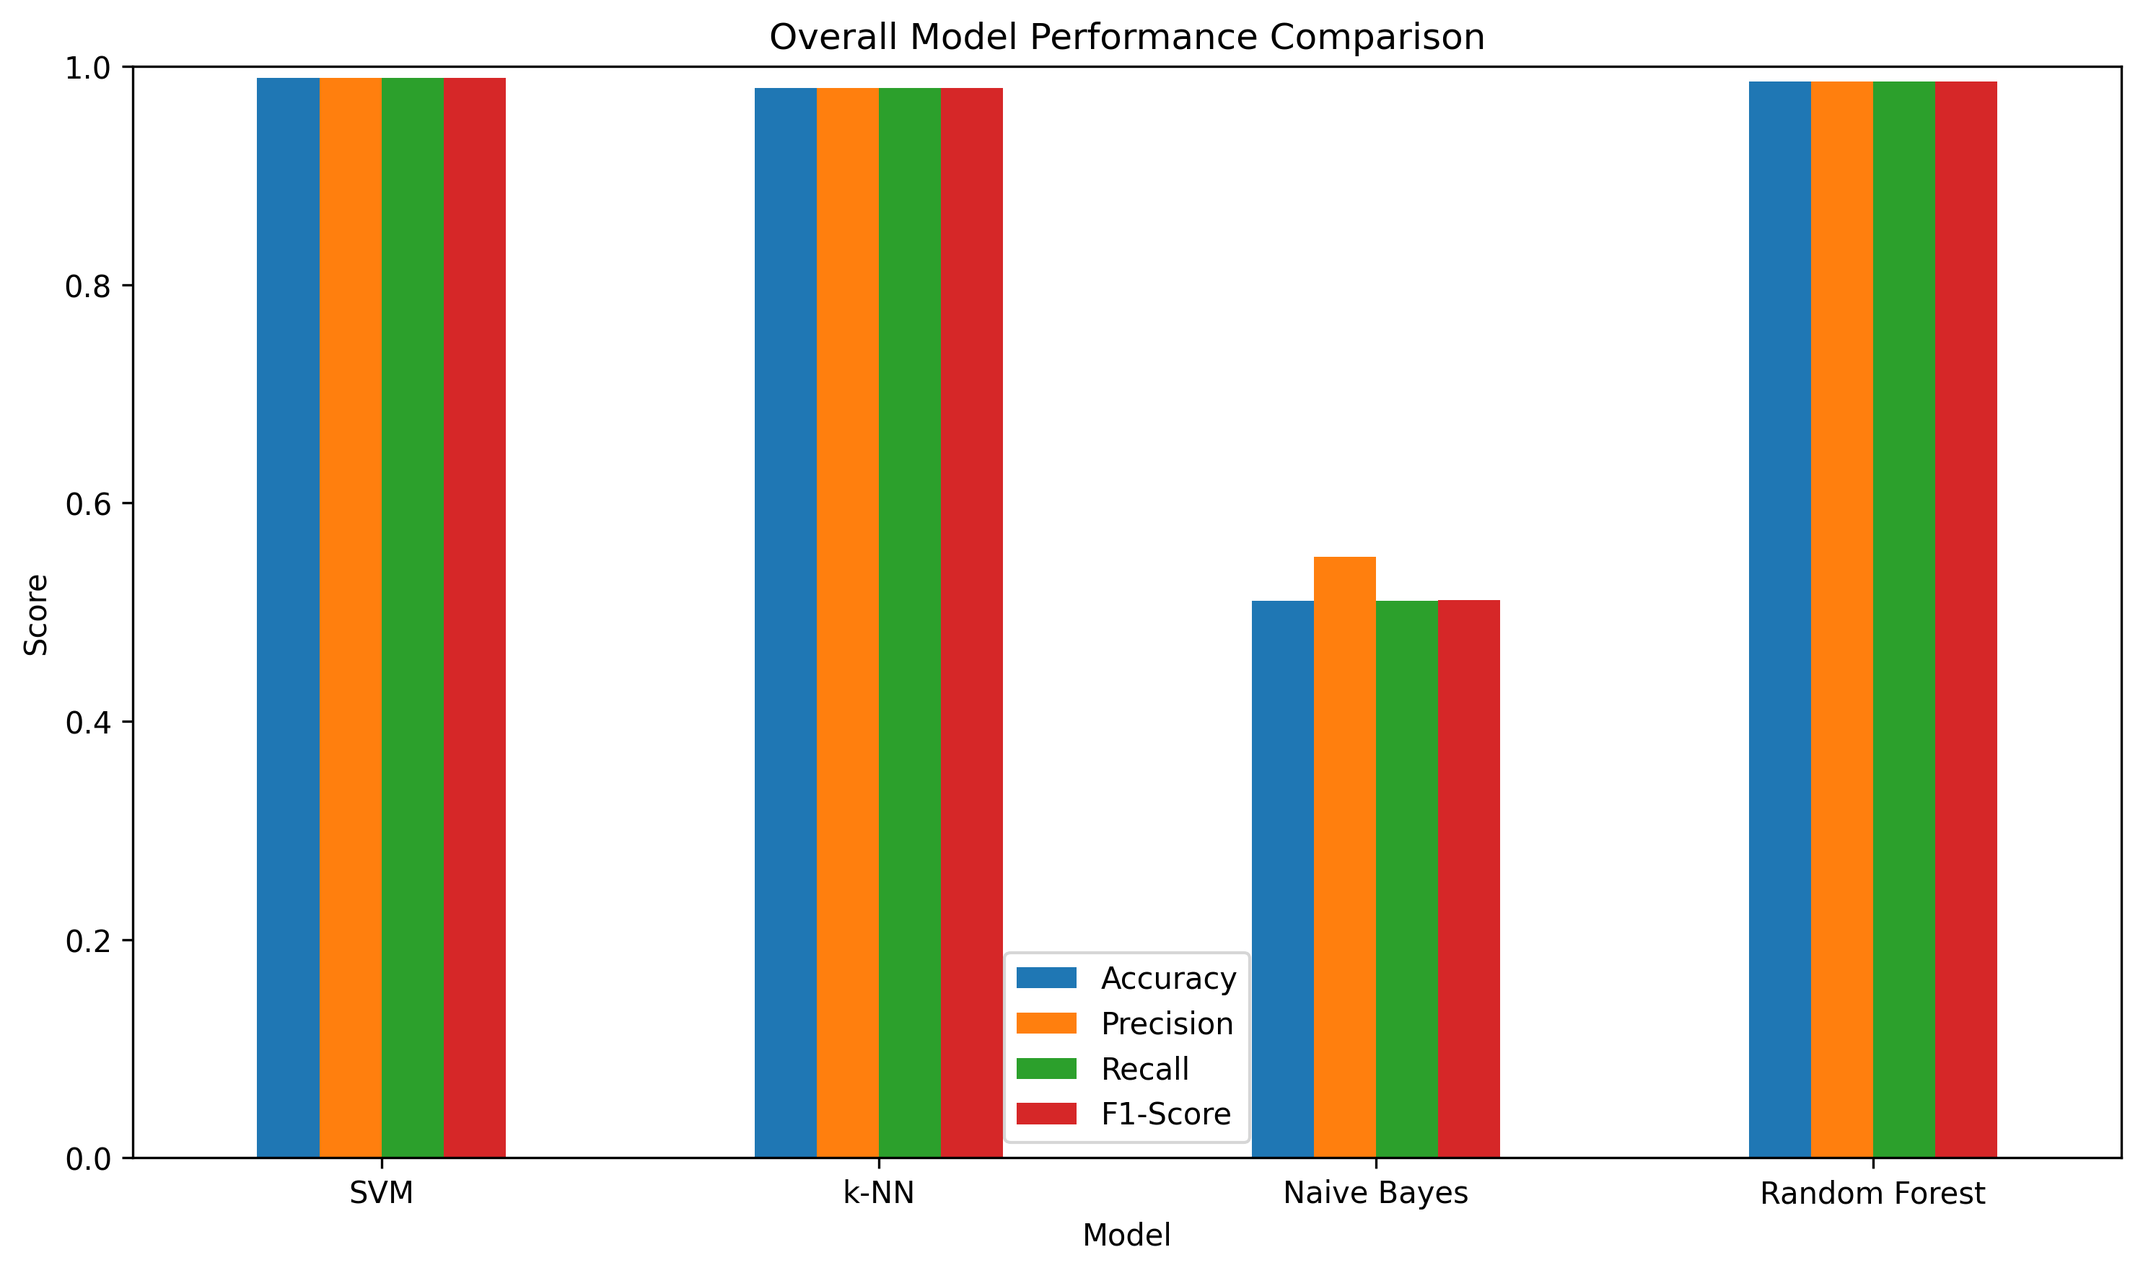
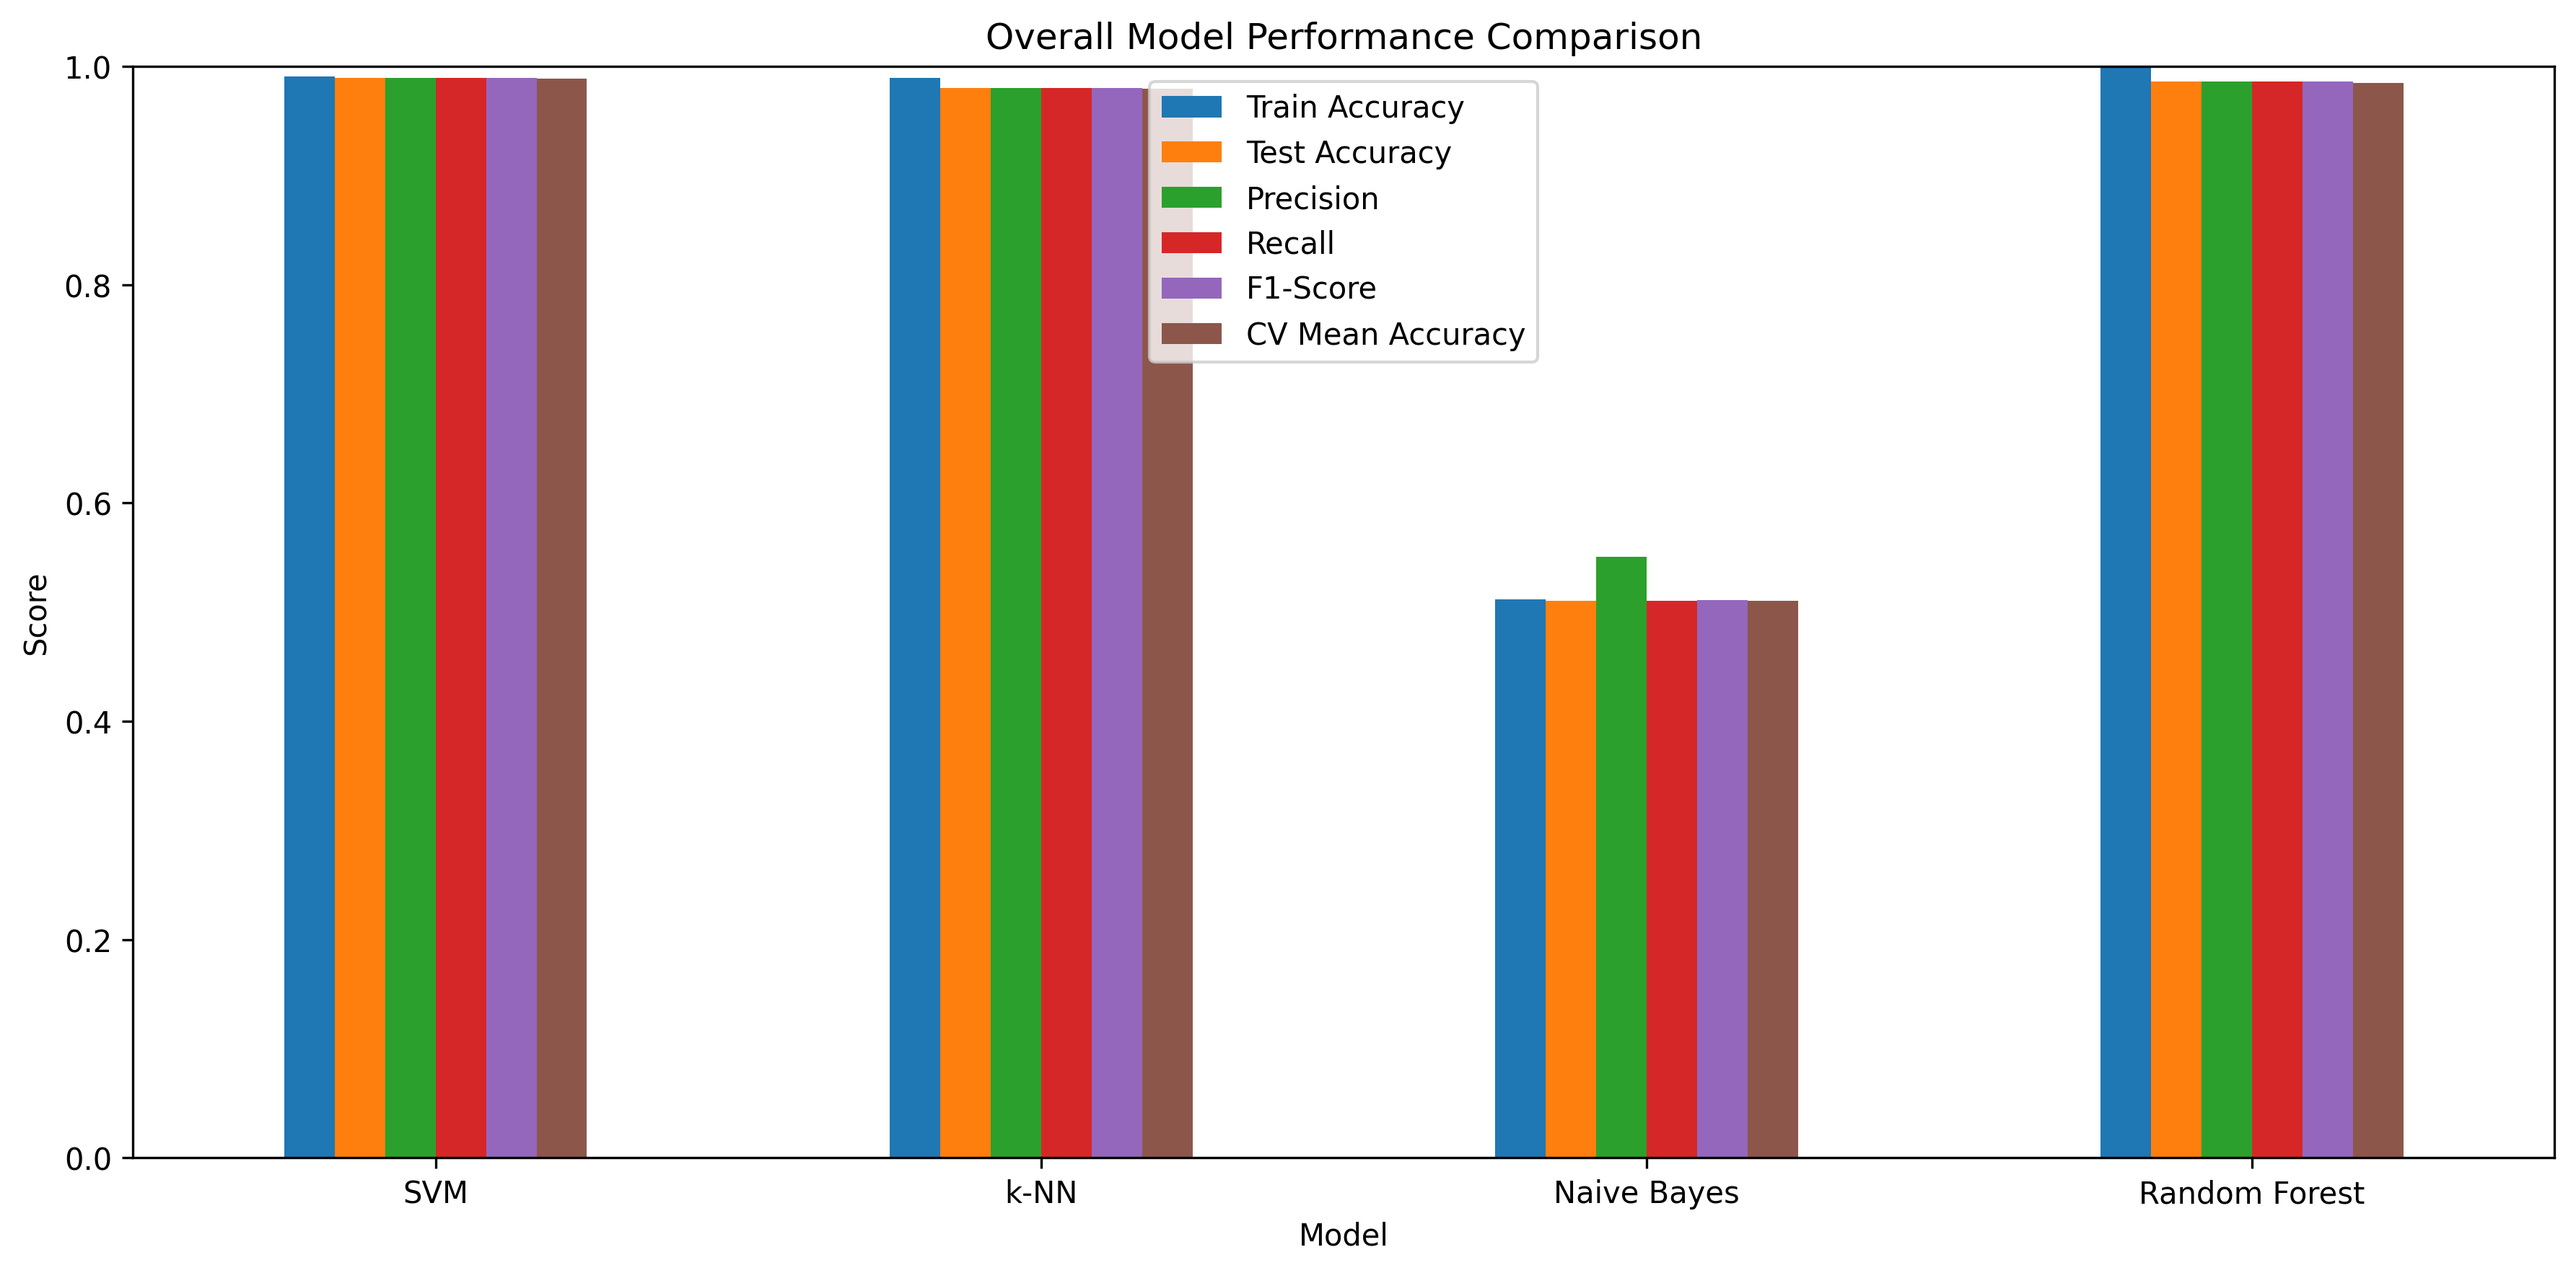
added 5-fold Cross Validation

diff --git a/model_testing.py b/model_testing.py
@@ -2,7 +2,12 @@ import os
 import pandas as pd
 import numpy as np
 
-from sklearn.model_selection import train_test_split
+from sklearn.model_selection import (
+    train_test_split,
+    cross_val_score,
+    StratifiedKFold
+)
+
 from sklearn.preprocessing import StandardScaler, LabelEncoder
 
 from sklearn.svm import SVC
@@ -30,7 +35,7 @@ os.makedirs("plots/model_comparisons", exist_ok=True)
 os.makedirs("reports", exist_ok=True)
 
 # ==========================================
-# 2. LOAD CSV FILE
+# 2. LOAD DATASET
 # ==========================================
 CSV_PATH = "asl_landmark_features.csv"
 
@@ -41,7 +46,7 @@ print(df.head())
 print("\nDataset Shape:", df.shape)
 
 # ==========================================
-# 3. SEPARATE FEATURES AND LABELS
+# 3. FEATURES AND LABELS
 # ==========================================
 X = df.drop("label", axis=1)
 y = df["label"]
@@ -56,7 +61,7 @@ print("\nClasses:")
 print(label_encoder.classes_)
 
 # ==========================================
-# 5. TRAIN-TEST SPLIT (80:20 PER LABEL)
+# 5. TRAIN-TEST SPLIT
 # ==========================================
 X_train, X_test, y_train, y_test = train_test_split(
     X,
@@ -77,6 +82,9 @@ scaler = StandardScaler()
 X_train = scaler.fit_transform(X_train)
 X_test = scaler.transform(X_test)
 
+# Scale full dataset for cross-validation
+X_scaled = scaler.fit_transform(X)
+
 # ==========================================
 # 7. DEFINE MODELS
 # ==========================================
@@ -91,15 +99,24 @@ models = {
 }
 
 # ==========================================
-# 8. TRAIN AND EVALUATE MODELS
+# 8. K-FOLD CROSS VALIDATION SETUP
+# ==========================================
+kfold = StratifiedKFold(
+    n_splits=5,
+    shuffle=True,
+    random_state=42
+)
+
+# ==========================================
+# 9. TRAIN AND EVALUATE
 # ==========================================
 results = []
 
 for model_name, model in models.items():
 
-    print("\n" + "="*50)
+    print("\n" + "="*60)
     print(f"TRAINING: {model_name}")
-    print("="*50)
+    print("="*60)
 
     # ==========================================
     # TRAIN MODEL
@@ -112,7 +129,7 @@ for model_name, model in models.items():
     y_pred = model.predict(X_test)
 
     # ==========================================
-    # METRICS
+    # TEST METRICS
     # ==========================================
     accuracy = accuracy_score(y_test, y_pred)
 
@@ -135,23 +152,54 @@ for model_name, model in models.items():
     )
 
     # ==========================================
+    # TRAINING ACCURACY
+    # ==========================================
+    train_accuracy = model.score(X_train, y_train)
+
+    # ==========================================
+    # CROSS VALIDATION
+    # ==========================================
+    cv_scores = cross_val_score(
+        model,
+        X_scaled,
+        y_encoded,
+        cv=kfold,
+        scoring='accuracy',
+        n_jobs=-1
+    )
+
+    cv_mean = cv_scores.mean()
+    cv_std = cv_scores.std()
+
+    # ==========================================
     # STORE RESULTS
     # ==========================================
     results.append({
         "Model": model_name,
-        "Accuracy": accuracy,
+        "Train Accuracy": train_accuracy,
+        "Test Accuracy": accuracy,
         "Precision": precision,
         "Recall": recall,
-        "F1-Score": f1
+        "F1-Score": f1,
+        "CV Mean Accuracy": cv_mean,
+        "CV Std": cv_std
     })
 
     # ==========================================
     # PRINT RESULTS
     # ==========================================
-    print(f"\nAccuracy : {accuracy:.4f}")
-    print(f"Precision: {precision:.4f}")
-    print(f"Recall   : {recall:.4f}")
-    print(f"F1-Score : {f1:.4f}")
+    print(f"\nTrain Accuracy : {train_accuracy:.4f}")
+    print(f"Test Accuracy  : {accuracy:.4f}")
+
+    print(f"\nPrecision      : {precision:.4f}")
+    print(f"Recall         : {recall:.4f}")
+    print(f"F1-Score       : {f1:.4f}")
+
+    print("\nCross Validation Scores:")
+    print(cv_scores)
+
+    print(f"\nMean CV Accuracy: {cv_mean:.4f}")
+    print(f"CV Std Dev      : {cv_std:.4f}")
 
     # ==========================================
     # CLASSIFICATION REPORT
@@ -165,7 +213,7 @@ for model_name, model in models.items():
     print("\nClassification Report:")
     print(report)
 
-    # Save report to text file
+    # Save report
     report_path = f"reports/{model_name}_classification_report.txt"
 
     with open(report_path, "w") as f:
@@ -205,28 +253,33 @@ for model_name, model in models.items():
     plt.close()
 
 # ==========================================
-# 9. RESULTS COMPARISON TABLE
+# 10. RESULTS TABLE
 # ==========================================
 results_df = pd.DataFrame(results)
 
-print("\n" + "="*50)
+print("\n" + "="*60)
 print("FINAL MODEL COMPARISON")
-print("="*50)
+print("="*60)
 
 print(results_df)
 
-# ==========================================
-# 10. SAVE RESULTS CSV
-# ==========================================
+# Save results
 results_df.to_csv(
-    "reports/model_results.csv",
+    "reports/model_results_with_cv.csv",
     index=False
 )
 
 # ==========================================
-# 11. VISUALIZE METRICS
+# 11. METRIC COMPARISON PLOTS
 # ==========================================
-metrics = ["Accuracy", "Precision", "Recall", "F1-Score"]
+metrics = [
+    "Train Accuracy",
+    "Test Accuracy",
+    "Precision",
+    "Recall",
+    "F1-Score",
+    "CV Mean Accuracy"
+]
 
 for metric in metrics:
 
@@ -239,6 +292,7 @@ for metric in metrics:
     )
 
     plt.title(f"Model Comparison - {metric}")
+
     plt.ylim(0, 1)
 
     plt.tight_layout()
@@ -257,20 +311,28 @@ for metric in metrics:
 # ==========================================
 results_df.set_index("Model")[metrics].plot(
     kind='bar',
-    figsize=(10, 6)
+    figsize=(12, 6)
 )
 
 plt.title("Overall Model Performance Comparison")
 plt.ylabel("Score")
+
 plt.ylim(0, 1)
+
 plt.xticks(rotation=0)
 
 plt.tight_layout()
 
-# Save overall comparison graph
-overall_plot_path = "plots/model_comparisons/overall_model_comparison.png"
+# Save overall graph
+overall_plot_path = (
+    "plots/model_comparisons/overall_model_comparison.png"
+)
 
-plt.savefig(overall_plot_path, dpi=300, bbox_inches='tight')
+plt.savefig(
+    overall_plot_path,
+    dpi=300,
+    bbox_inches='tight'
+)
 
 plt.show()
 
@@ -281,13 +343,7 @@ print("ALL RESULTS SAVED SUCCESSFULLY")
 print("===================================")
 
 print("\nSaved Files:")
-
-print("\nReports:")
-print("- reports/model_results.csv")
+print("- reports/model_results_with_cv.csv")
 print("- reports/*_classification_report.txt")
-
-print("\nConfusion Matrices:")
 print("- plots/confusion_matrices/")
-
-print("\nComparison Graphs:")
 print("- plots/model_comparisons/")
